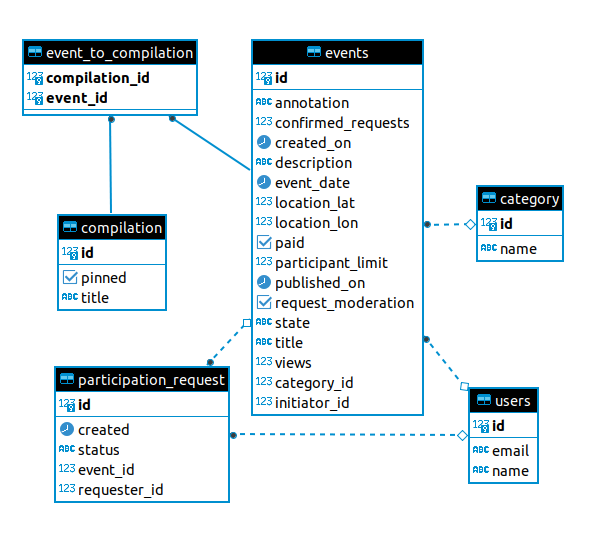
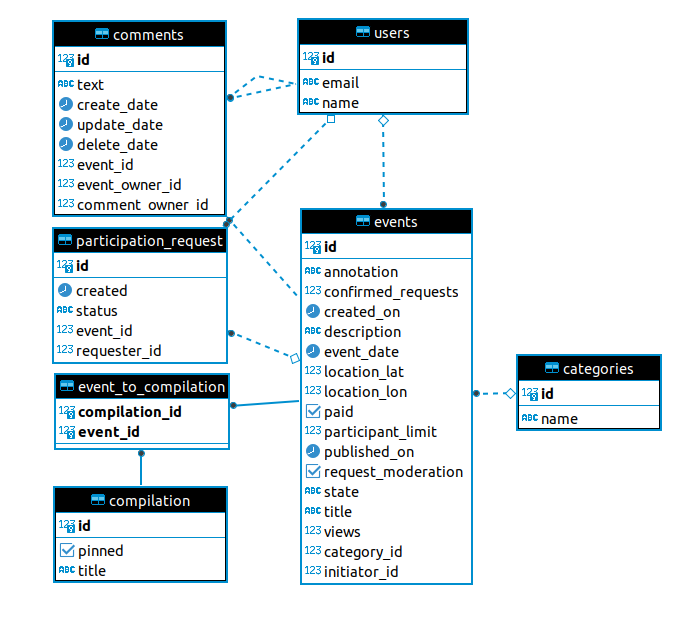
EWM: fix code review README.md

Changed region(s): [[0.0297, 0.0, 0.9786, 0.9652], [0.7414, 0.3114, 0.9489, 0.4982]]

diff --git a/README.md b/README.md
@@ -1,4 +1,29 @@
 # java-explore-with-me
-Template repository for ExploreWithMe project.
+___
+### Pull request для ревью можно найти, нажав [*__тык__*](https://github.com/LVarf/java-explore-with-me/pull/37). 
+___
+### Описание проекта
+Приложение, находящееся в данном репозитории, является реализацией дипломного проекта по курсу Java - разработка на 
+платформе [__Яндекс.Практикум__](https://practicum.yandex.ru/).  
+Идея диплома - афиша, где можно предложить какое-либо событие от выставки
+до похода в кино и набрать компанию для участия в нём.
 
-pull request link: https://github.com/LVarf/java-explore-with-me/pull/37
+Проект с микросервисной архитектурой реализован на платформе Spring Boot с использованием
+Spring Data JPA, Hibernate и других библеотек.  
+База данных - PostgreSQL.
+#### Структура
+* основной микросервис: __ewm-core__;
+* микросервис статистики: __ewm-stat__;
+* база данных для основного сервиса (схема базы данных представлена в конце документа);
+* база данных для сервиса статистики (схема базы данных представлена в конце документа);
+___
+### Запуск проекта в контейнере
+1. Сколнировать проект из ветки *developer* в локальный репозиторий командой "git clone *__actual_link__*".
+2. Открыть терминал в корневой директории "java-explore-with-me".
+3. Выполнить команду "docker compose up -d".
+___
+### Схемы баз данных
+#### Основной микросервис
+![База данных основного микросервиса](ewm-core-db.png)
+#### Микросервис статистики
+![База данных микросервиса статистики](ewm-stat-db.png)
